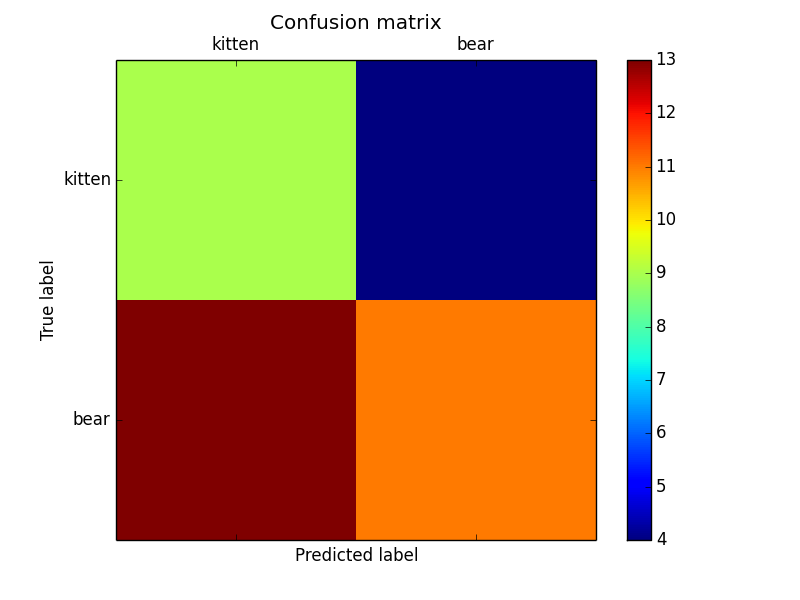
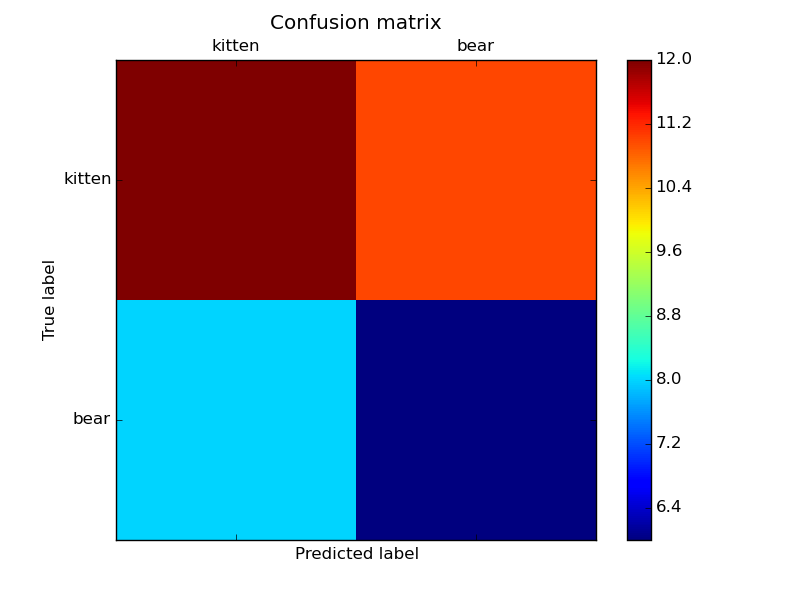
render pipeline with human readable names

diff --git a/metrics/pipeline_graph.md b/metrics/pipeline_graph.md
@@ -1,47 +1,7 @@
 
 
-## Kitten vs bear classifier
-
-This repo contains a [brain4k](https://github.com/shuggiefisher/brain4k) pipeline for a kitten-or-bear classifier.  It is intended to serve as
-an example of how to train a classifier on imagenet features.  The features
-are the activity of the penultimate layer of a convolutional neural network trained
-on the imagenet database.
-
-to execute the pipeline within a docker container:
-
-```
-sudo docker run -ti tleyden5iwx/caffe-cpu-master /bin/bash
-pip install git+https://github.com/shuggiefisher/brain4k.git
-git clone https://github.com/shuggiefisher/kitten-or-bear-classifier.git local-path-to-this-repo
-brain4k local-path-to-this-repo
-```
-
-### Requirements
-- [brain4k](https://github.com/shuggiefisher/brain4k)
-- caffe, including python wrappers
-- scikit-learn
-- matplotlib
-
-Installing caffe is quite involved, so you may find it easier to use a
-[caffe docker image](https://registry.hub.docker.com/u/tleyden5iwx/caffe/)
-
-
-
-
-
 # The Pipeline
 
 <a href='http://g.gravizo.com/g?digraph G { compound=true; ranksep=1; ratio=compress; size=728; subgraph cluster_1 { style=filled; color=lightgrey; fontname="Helvetica"; fontsize=18; "1_Extracted image features" [style="filled,rounded",color=green,label="Extracted image features",fontname="Verdana",fontsize=12,shape=rectangle]; "1_kitten-or-bear images" [style="filled,rounded",color=orange,label="kitten-or-bear images",fontname="Verdana",fontsize=12,shape=rectangle]; label = "Neural network pretrained on imagenet"; } subgraph cluster_2 { style=filled; color=lightgrey; fontname="Helvetica"; fontsize=18; "2_Image features and ground truth labels" [style="filled,rounded",color=green,label="Image features and ground truth labels",fontname="Verdana",fontsize=12,shape=rectangle]; "2_kitten-or-bear images" [style="filled,rounded",color=orange,label="kitten-or-bear images",fontname="Verdana",fontsize=12,shape=rectangle];"2_Extracted image features" [style="filled,rounded",color=orange,label="Extracted image features",fontname="Verdana",fontsize=12,shape=rectangle]; label = "Join image labels and extracted features"; } "1_Extracted image features" -> "2_Extracted image features" [ltail=cluster_1, lhead=cluster_2]; subgraph cluster_3 { style=filled; color=lightgrey; fontname="Helvetica"; fontsize=18; "3_Test and Training image features" [style="filled,rounded",color=green,label="Test and Training image features",fontname="Verdana",fontsize=12,shape=rectangle]; "3_Image features and ground truth labels" [style="filled,rounded",color=orange,label="Image features and ground truth labels",fontname="Verdana",fontsize=12,shape=rectangle]; label = "Split into test and training set"; } "2_Image features and ground truth labels" -> "3_Image features and ground truth labels" [ltail=cluster_2, lhead=cluster_3]; subgraph cluster_4 { style=filled; color=lightgrey; fontname="Helvetica"; fontsize=18; "4_Image classifier test results" [style="filled,rounded",color=green,label="Image classifier test results",fontname="Verdana",fontsize=12,shape=rectangle];"4_kitten-or-bear classifier" [style="filled,rounded",color=green,label="kitten-or-bear classifier",fontname="Verdana",fontsize=12,shape=rectangle]; "4_Test and Training image features" [style="filled,rounded",color=orange,label="Test and Training image features",fontname="Verdana",fontsize=12,shape=rectangle]; label = "Multinomial Naive Bayes Classifier"; } "3_Test and Training image features" -> "4_Test and Training image features" [ltail=cluster_3, lhead=cluster_4]; subgraph cluster_5 { style=filled; color=lightgrey; fontname="Helvetica"; fontsize=18; "5_Image classifier confusion metric" [style="filled,rounded",color=green,label="Image classifier confusion metric",fontname="Verdana",fontsize=12,shape=rectangle];"5_Image classifier confusion graph" [style="filled,rounded",color=green,label="Image classifier confusion graph",fontname="Verdana",fontsize=12,shape=rectangle]; "5_Image ground truth labels" [style="filled,rounded",color=orange,label="Image ground truth labels",fontname="Verdana",fontsize=12,shape=rectangle];"5_Image classifier test results" [style="filled,rounded",color=orange,label="Image classifier test results",fontname="Verdana",fontsize=12,shape=rectangle]; label = "Confusion matrix"; } "4_Image classifier test results" -> "5_Image classifier test results" [ltail=cluster_4, lhead=cluster_5]; start -> "1_kitten-or-bear images" [lhead=cluster_1]; "5_Image classifier confusion metric" -> end [ltail=cluster_5]; start [shape=Mdiamond]; end [shape=Msquare]; }'>
 <img alt="Pipeline diagram" src='http://g.gravizo.com/g?digraph G { compound=true; ranksep=1; ratio=compress; size=728; subgraph cluster_1 { style=filled; color=lightgrey; fontname="Helvetica"; fontsize=18; "1_Extracted image features" [style="filled,rounded",color=green,label="Extracted image features",fontname="Verdana",fontsize=12,shape=rectangle]; "1_kitten-or-bear images" [style="filled,rounded",color=orange,label="kitten-or-bear images",fontname="Verdana",fontsize=12,shape=rectangle]; label = "Neural network pretrained on imagenet"; } subgraph cluster_2 { style=filled; color=lightgrey; fontname="Helvetica"; fontsize=18; "2_Image features and ground truth labels" [style="filled,rounded",color=green,label="Image features and ground truth labels",fontname="Verdana",fontsize=12,shape=rectangle]; "2_kitten-or-bear images" [style="filled,rounded",color=orange,label="kitten-or-bear images",fontname="Verdana",fontsize=12,shape=rectangle];"2_Extracted image features" [style="filled,rounded",color=orange,label="Extracted image features",fontname="Verdana",fontsize=12,shape=rectangle]; label = "Join image labels and extracted features"; } "1_Extracted image features" -> "2_Extracted image features" [ltail=cluster_1, lhead=cluster_2]; subgraph cluster_3 { style=filled; color=lightgrey; fontname="Helvetica"; fontsize=18; "3_Test and Training image features" [style="filled,rounded",color=green,label="Test and Training image features",fontname="Verdana",fontsize=12,shape=rectangle]; "3_Image features and ground truth labels" [style="filled,rounded",color=orange,label="Image features and ground truth labels",fontname="Verdana",fontsize=12,shape=rectangle]; label = "Split into test and training set"; } "2_Image features and ground truth labels" -> "3_Image features and ground truth labels" [ltail=cluster_2, lhead=cluster_3]; subgraph cluster_4 { style=filled; color=lightgrey; fontname="Helvetica"; fontsize=18; "4_Image classifier test results" [style="filled,rounded",color=green,label="Image classifier test results",fontname="Verdana",fontsize=12,shape=rectangle];"4_kitten-or-bear classifier" [style="filled,rounded",color=green,label="kitten-or-bear classifier",fontname="Verdana",fontsize=12,shape=rectangle]; "4_Test and Training image features" [style="filled,rounded",color=orange,label="Test and Training image features",fontname="Verdana",fontsize=12,shape=rectangle]; label = "Multinomial Naive Bayes Classifier"; } "3_Test and Training image features" -> "4_Test and Training image features" [ltail=cluster_3, lhead=cluster_4]; subgraph cluster_5 { style=filled; color=lightgrey; fontname="Helvetica"; fontsize=18; "5_Image classifier confusion metric" [style="filled,rounded",color=green,label="Image classifier confusion metric",fontname="Verdana",fontsize=12,shape=rectangle];"5_Image classifier confusion graph" [style="filled,rounded",color=green,label="Image classifier confusion graph",fontname="Verdana",fontsize=12,shape=rectangle]; "5_Image ground truth labels" [style="filled,rounded",color=orange,label="Image ground truth labels",fontname="Verdana",fontsize=12,shape=rectangle];"5_Image classifier test results" [style="filled,rounded",color=orange,label="Image classifier test results",fontname="Verdana",fontsize=12,shape=rectangle]; label = "Confusion matrix"; } "4_Image classifier test results" -> "5_Image classifier test results" [ltail=cluster_4, lhead=cluster_5]; start -> "1_kitten-or-bear images" [lhead=cluster_1]; "5_Image classifier confusion metric" -> end [ltail=cluster_5]; start [shape=Mdiamond]; end [shape=Msquare]; }' width=728/>
 </a>
-
-
-# Pipeline performance metrics
-
-
-![Confusion Matrix Caption](kitten-or-bear-classifier/metrics/figures/image_classifier_confusion.png)
-
-Confusion matrix:
-
-[[12 11]
- [ 8  6]]

diff --git a/metrics/image_classifier_confusion.md b/metrics/image_classifier_confusion.md
@@ -1,5 +1,6 @@
-![Confusion Matrix Caption](metrics/figures/image_classifier_confusion.png)
+![Confusion Matrix Caption](kitten-or-bear-classifier/metrics/figures/image_classifier_confusion.png)
 
 Confusion matrix:
-[[ 9  4]
- [13 11]]
+
+[[12 11]
+ [ 8  6]]
